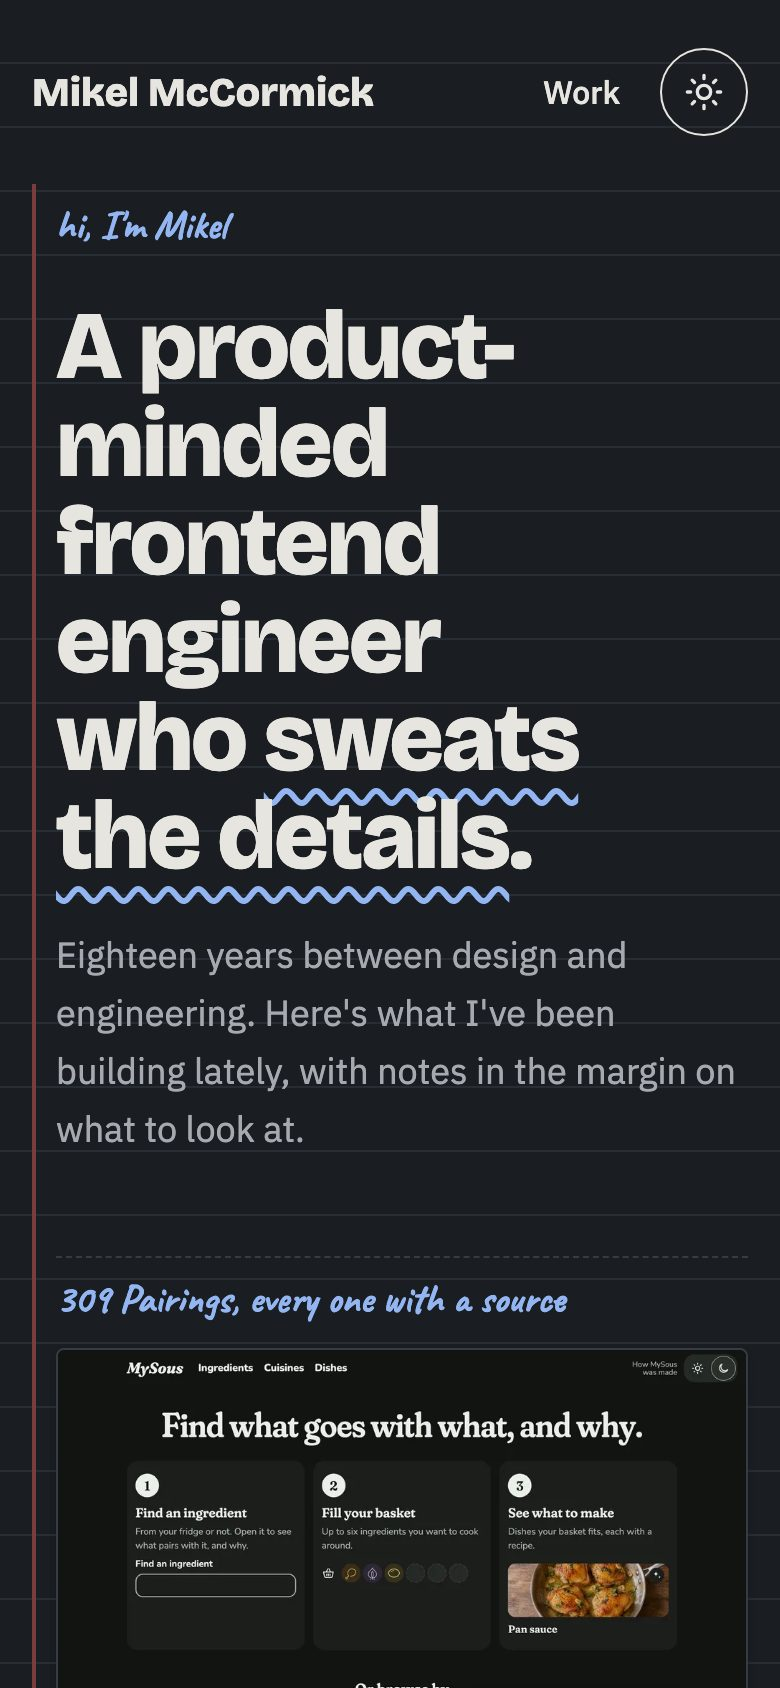
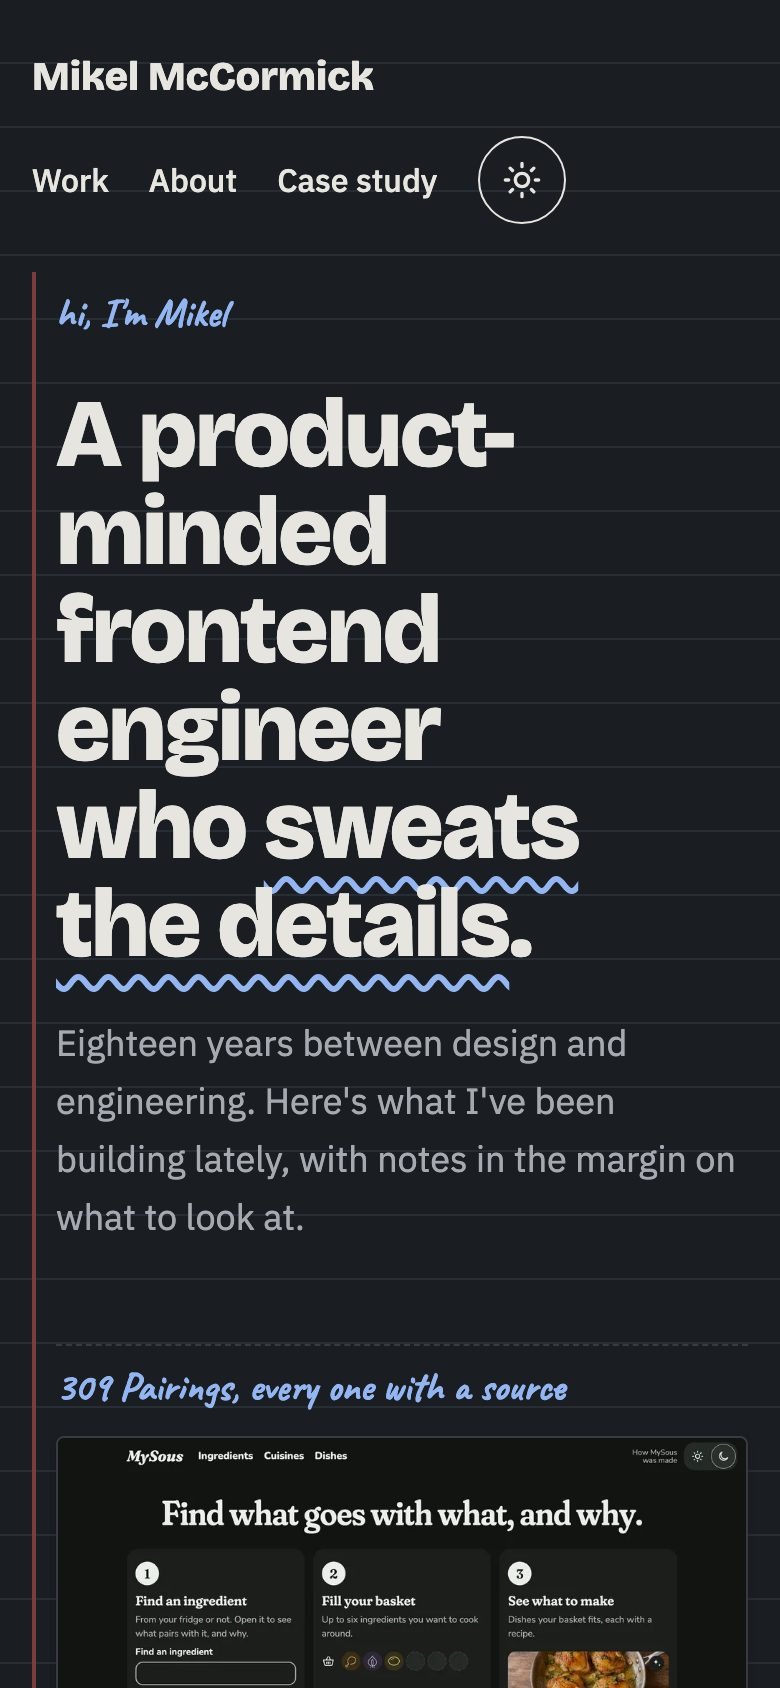
Milestone 5: this site's Case Study (#12)
/case-study, in MDX: in 60 seconds, why Astro, Projects as content, the
look (with the prototype rounds as figures), performance with
Lighthouse numbers measured on production, accessibility, building
with Claude, what was found on the way, and what's next. Margin notes
sit in the margin beside the prose; the Lighthouse table scrolls inside
a focusable, labelled region on a narrow screen. Case study joins the
navigation, and This site's Project page links to it. This site's
screenshots are recaptured with the new navigation.

Closes #11

diff --git a/e2e/case-study.spec.ts b/e2e/case-study.spec.ts
@@ -1,0 +1,71 @@
+import AxeBuilder from '@axe-core/playwright'
+import { expect, test } from '@playwright/test'
+
+test("the Case Study's chapters, in order, and the navigation marks it", async ({ page }) => {
+  await page.goto('/case-study')
+  await expect(page).toHaveTitle('How this site was made · Mikel McCormick')
+  await expect(page.getByRole('heading', { level: 1 })).toHaveText('How this site was made')
+  await expect(page.getByRole('article').getByRole('heading', { level: 2 })).toHaveText([
+    'In 60 seconds',
+    'Why Astro',
+    'Projects as content',
+    'The look',
+    'Performance',
+    'Accessibility',
+    'Building with Claude',
+    'Found on the way',
+    // MDX sets typographic apostrophes.
+    'What\u2019s next',
+  ])
+  await expect(
+    page.getByRole('navigation', { name: 'Main' }).getByRole('link', { name: 'Case study' }),
+  ).toHaveAttribute('aria-current', 'page')
+})
+
+test('its links reach the Projects, the code and the decision records', async ({ page }) => {
+  await page.goto('/case-study')
+  const article = page.getByRole('article')
+  await expect(article.getByRole('link', { name: 'MySous', exact: true })).toHaveAttribute('href', '/projects/my-sous')
+  await expect(article.getByRole('link', { name: 'the Dad-a-base', exact: true })).toHaveAttribute(
+    'href',
+    '/projects/dad-a-base',
+  )
+  await expect(article.getByRole('link', { name: 'magicianmike/portfolio' })).toHaveAttribute(
+    'href',
+    'https://github.com/magicianmike/portfolio',
+  )
+  for (const link of await article.getByRole('link', { name: /^ADR 000\d$/ }).all()) {
+    await expect(link).toHaveAttribute('href', /\/docs\/adr\/000\d-[\w-]+\.md$/)
+  }
+})
+
+test('This site links to its Case Study from its card and its Project page', async ({ page }) => {
+  await page.goto('/projects/this-site')
+  await expect(page.getByRole('link', { name: 'Case Study: This site' })).toHaveAttribute('href', '/case-study')
+})
+
+test('every prototype figure is described', async ({ page }) => {
+  await page.goto('/case-study')
+  const images = page.getByRole('article').getByRole('img')
+  await expect(images).toHaveCount(8)
+  for (const image of await images.all()) expect(await image.getAttribute('alt')).toMatch(/prototype|riff/)
+})
+
+for (const colorScheme of ['light', 'dark'] as const) {
+  test(`the Case Study has no axe violations, ${colorScheme}`, async ({ page }) => {
+    await page.emulateMedia({ colorScheme })
+    await page.goto('/case-study')
+    await page.evaluate(() => document.fonts.ready)
+    const { violations } = await new AxeBuilder({ page })
+      .withTags(['wcag2a', 'wcag2aa', 'wcag21aa', 'wcag22aa'])
+      .analyze()
+    expect(violations).toEqual([])
+  })
+}
+
+test('nothing on the Case Study is wider than a phone', async ({ page }) => {
+  await page.setViewportSize({ width: 320, height: 800 })
+  await page.goto('/case-study')
+  await page.evaluate(() => document.fonts.ready)
+  expect(await page.evaluate(() => document.documentElement.scrollWidth)).toBeLessThanOrEqual(320)
+})

diff --git a/src/styles/global.css b/src/styles/global.css
@@ -125,3 +125,81 @@
     display: block;
   }
 }
+
+/*
+ * Long-form prose, for the Case Study: the MDX renders plain elements, so their type is set here, on the article's own
+ * elements only. Figures opt out with `not-prose`.
+ */
+@layer components {
+  .prose {
+    max-width: 42rem;
+    font-size: 1.125rem;
+    line-height: 1.7;
+  }
+
+  .prose :where(h2):not(:where(.not-prose *)) {
+    margin: 3.5rem 0 1rem;
+    padding-top: 2rem;
+    border-top: 1px dashed var(--color-edge);
+    font-size: 1.875rem;
+    font-weight: 800;
+    line-height: 1.15;
+    letter-spacing: -0.02em;
+    scroll-margin-top: 1.5rem;
+  }
+
+  .prose > :where(h2:first-child) {
+    margin-top: 0;
+    padding-top: 0;
+    border-top: 0;
+  }
+
+  .prose :where(h3):not(:where(.not-prose *)) {
+    margin: 2rem 0 0.5rem;
+    font-size: 1.25rem;
+    font-weight: 800;
+  }
+
+  .prose :where(p, ul, ol):not(:where(.not-prose *)) {
+    margin: 0 0 1.25rem;
+  }
+
+  .prose :where(ul, ol):not(:where(.not-prose *)) {
+    padding-left: 1.25rem;
+  }
+
+  .prose :where(ul):not(:where(.not-prose *)) {
+    list-style: disc;
+  }
+
+  .prose :where(li + li):not(:where(.not-prose *)) {
+    margin-top: 0.4rem;
+  }
+
+  .prose :where(a):not(:where(.not-prose *)) {
+    text-decoration-color: var(--color-pen);
+    text-decoration-thickness: 2px;
+  }
+
+  .prose :where(code):not(:where(.not-prose *)) {
+    padding: 0 0.25rem;
+    border-radius: 0.125rem;
+    background: var(--color-card);
+    font-size: 0.9em;
+    overflow-wrap: anywhere;
+  }
+
+  .prose :where(table):not(:where(.not-prose *)) {
+    width: 100%;
+    margin: 0 0 1.5rem;
+    border-collapse: collapse;
+    font-size: 1rem;
+    font-variant-numeric: tabular-nums;
+  }
+
+  .prose :where(th, td):not(:where(.not-prose *)) {
+    padding: 0.4rem 0.75rem 0.4rem 0;
+    border-bottom: 1px solid var(--color-edge);
+    text-align: left;
+  }
+}

diff --git a/e2e/home.spec.ts b/e2e/home.spec.ts
@@ -36,7 +36,7 @@ test('the header names the site and the footer says how to get in touch', async 
   await page.goto('/')
   await expect(page.getByRole('link', { name: 'Mikel McCormick' })).toHaveAttribute('href', '/')
   const nav = page.getByRole('navigation', { name: 'Main' })
-  await expect(nav.getByRole('link')).toHaveText(['Work', 'About'])
+  await expect(nav.getByRole('link')).toHaveText(['Work', 'About', 'Case study'])
   await expect(nav.getByRole('link', { name: 'Work' })).toHaveAttribute('href', '/#work')
   await expect(nav.getByRole('link', { name: 'About' })).toHaveAttribute('href', '/about')
   const footer = page.getByRole('contentinfo')

diff --git a/src/content.config.ts b/src/content.config.ts
@@ -31,8 +31,8 @@ const projects = defineCollection({
       highlights: z.array(z.object({ heading: z.string(), body: z.string(), shot })).length(3),
       next: z.array(z.string()).min(1),
       /**
-       * Only links to pages that exist. This site's own Case Study joins in milestone 5, so its link is optional until
-       * then; a Live link to the home page from the home page would go nowhere.
+       * Only links to pages that exist. This site's Live link would only point at the site you're on, so it has none;
+       * its Case Study is this site's own `/case-study`.
        */
       links: z.object({
         live: z.url().optional(),

diff --git a/e2e/project.spec.ts b/e2e/project.spec.ts
@@ -4,8 +4,8 @@ import { expect, test, type Page } from '@playwright/test'
 const projects = [
   { slug: 'my-sous', name: 'MySous', links: ['Live site', 'Case Study', 'Code'] },
   { slug: 'dad-a-base', name: 'The Dad-a-base', links: ['Live site', 'Case Study', 'Code'] },
-  // This site's Case Study arrives in milestone 5, and its live site is this one.
-  { slug: 'this-site', name: 'This site', links: ['Code'] },
+  // This site's live site is the one you're on, so it has no Live link.
+  { slug: 'this-site', name: 'This site', links: ['Case Study', 'Code'] },
 ]
 
 async function loadEveryImage(page: Page) {

diff --git a/src/navigation.ts b/src/navigation.ts
@@ -2,6 +2,7 @@
 export const navigation = [
   { label: 'Work', href: '/#work' },
   { label: 'About', href: '/about' },
+  { label: 'Case study', href: '/case-study' },
 ] as const
 
 export const contact = {
